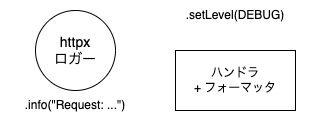
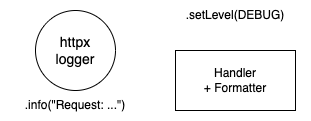
feat: Update Chapter1

diff --git a/samplecode/python-logging/library_logger/httpxyz_logging.py b/samplecode/python-logging/library_logger/httpxyz_logging.py
@@ -1,0 +1,31 @@
+# /// script
+# requires-python = ">=3.11"
+# dependencies = [
+#     "httpxyz",
+#     "rich",
+# ]
+# ///
+import logging
+from datetime import datetime
+
+import httpxyz
+from rich.pretty import pprint
+
+httpxyz_logger = logging.getLogger("httpxyz")
+httpxyz_logger.setLevel(logging.DEBUG)
+
+console_handler = logging.StreamHandler()
+detailed_formatter = logging.Formatter(
+    "%(asctime)s | %(levelname)s (%(name)s) | %(filename)s:%(funcName)s:%(lineno)d - %(message)s"
+)
+console_handler.setFormatter(detailed_formatter)
+httpxyz_logger.addHandler(console_handler)
+
+resp = httpxyz.get("https://peps.python.org/api/peps.json")
+data = resp.json()
+peps_desc_created = sorted(
+    data.items(),
+    key=lambda item: datetime.strptime(item[1]["created"], "%d-%b-%Y"),
+    reverse=True,
+)
+pprint([(k, v["title"], v["created"]) for k, v in peps_desc_created][:10])